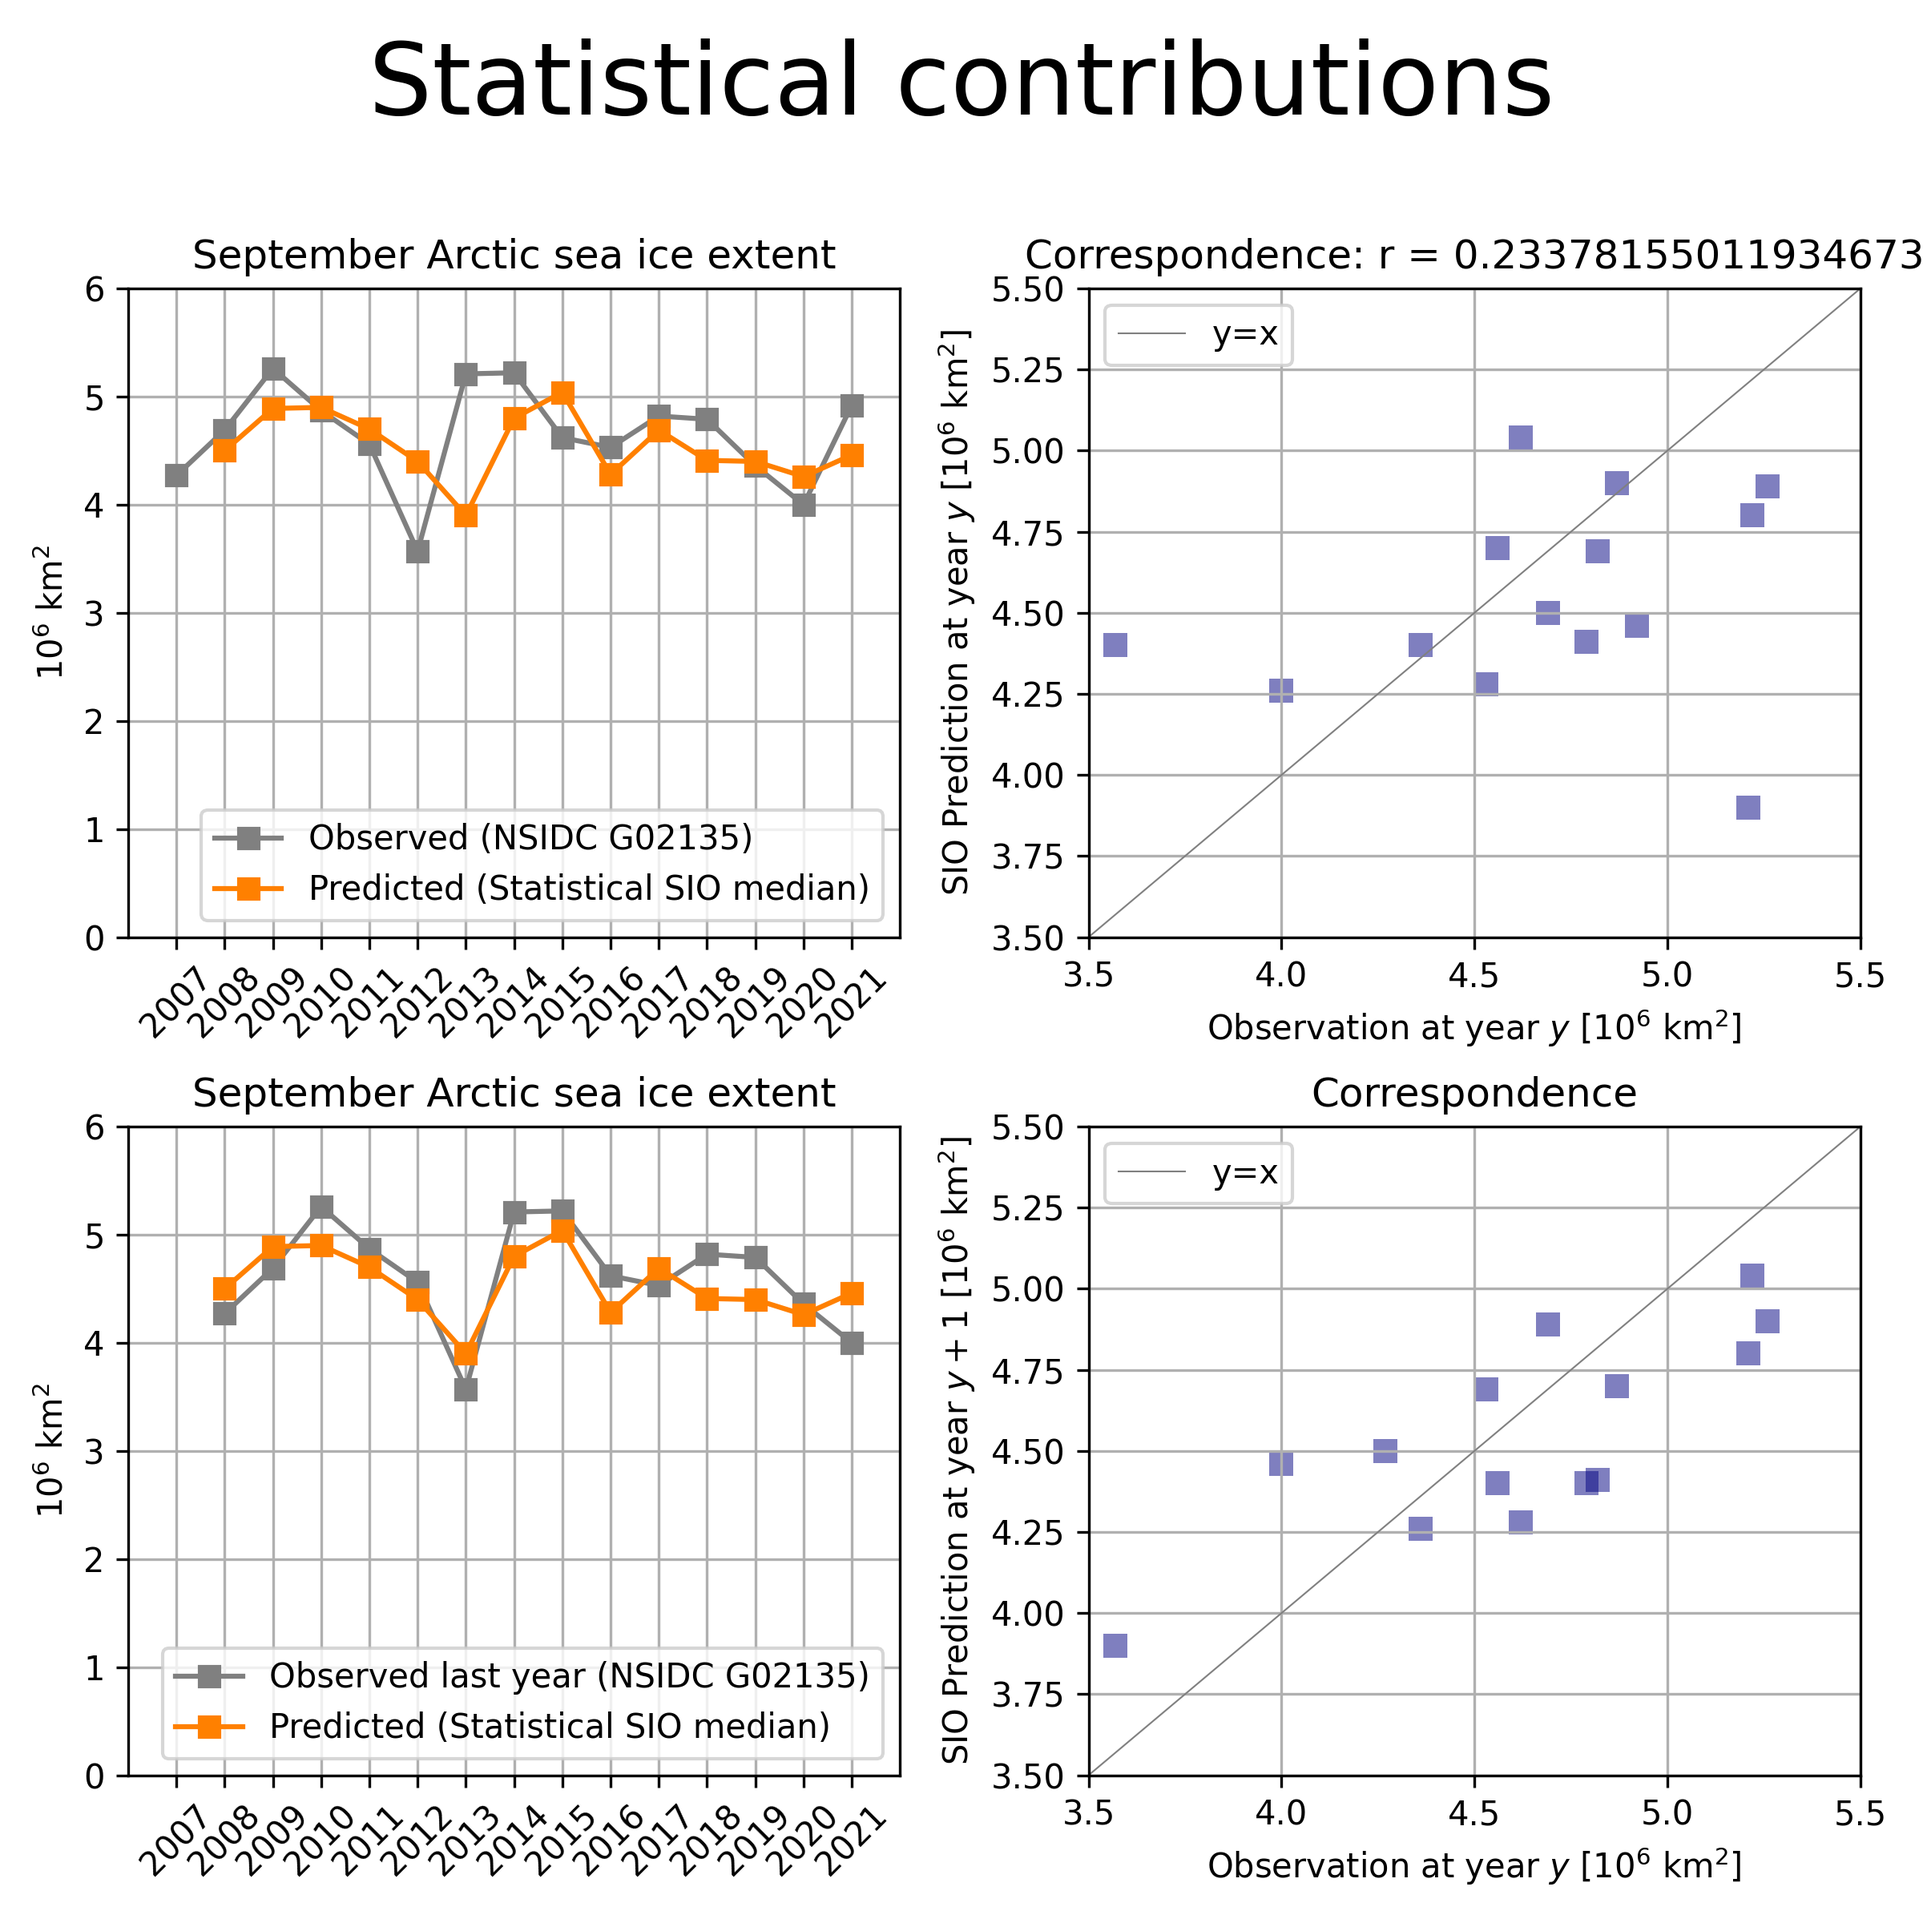
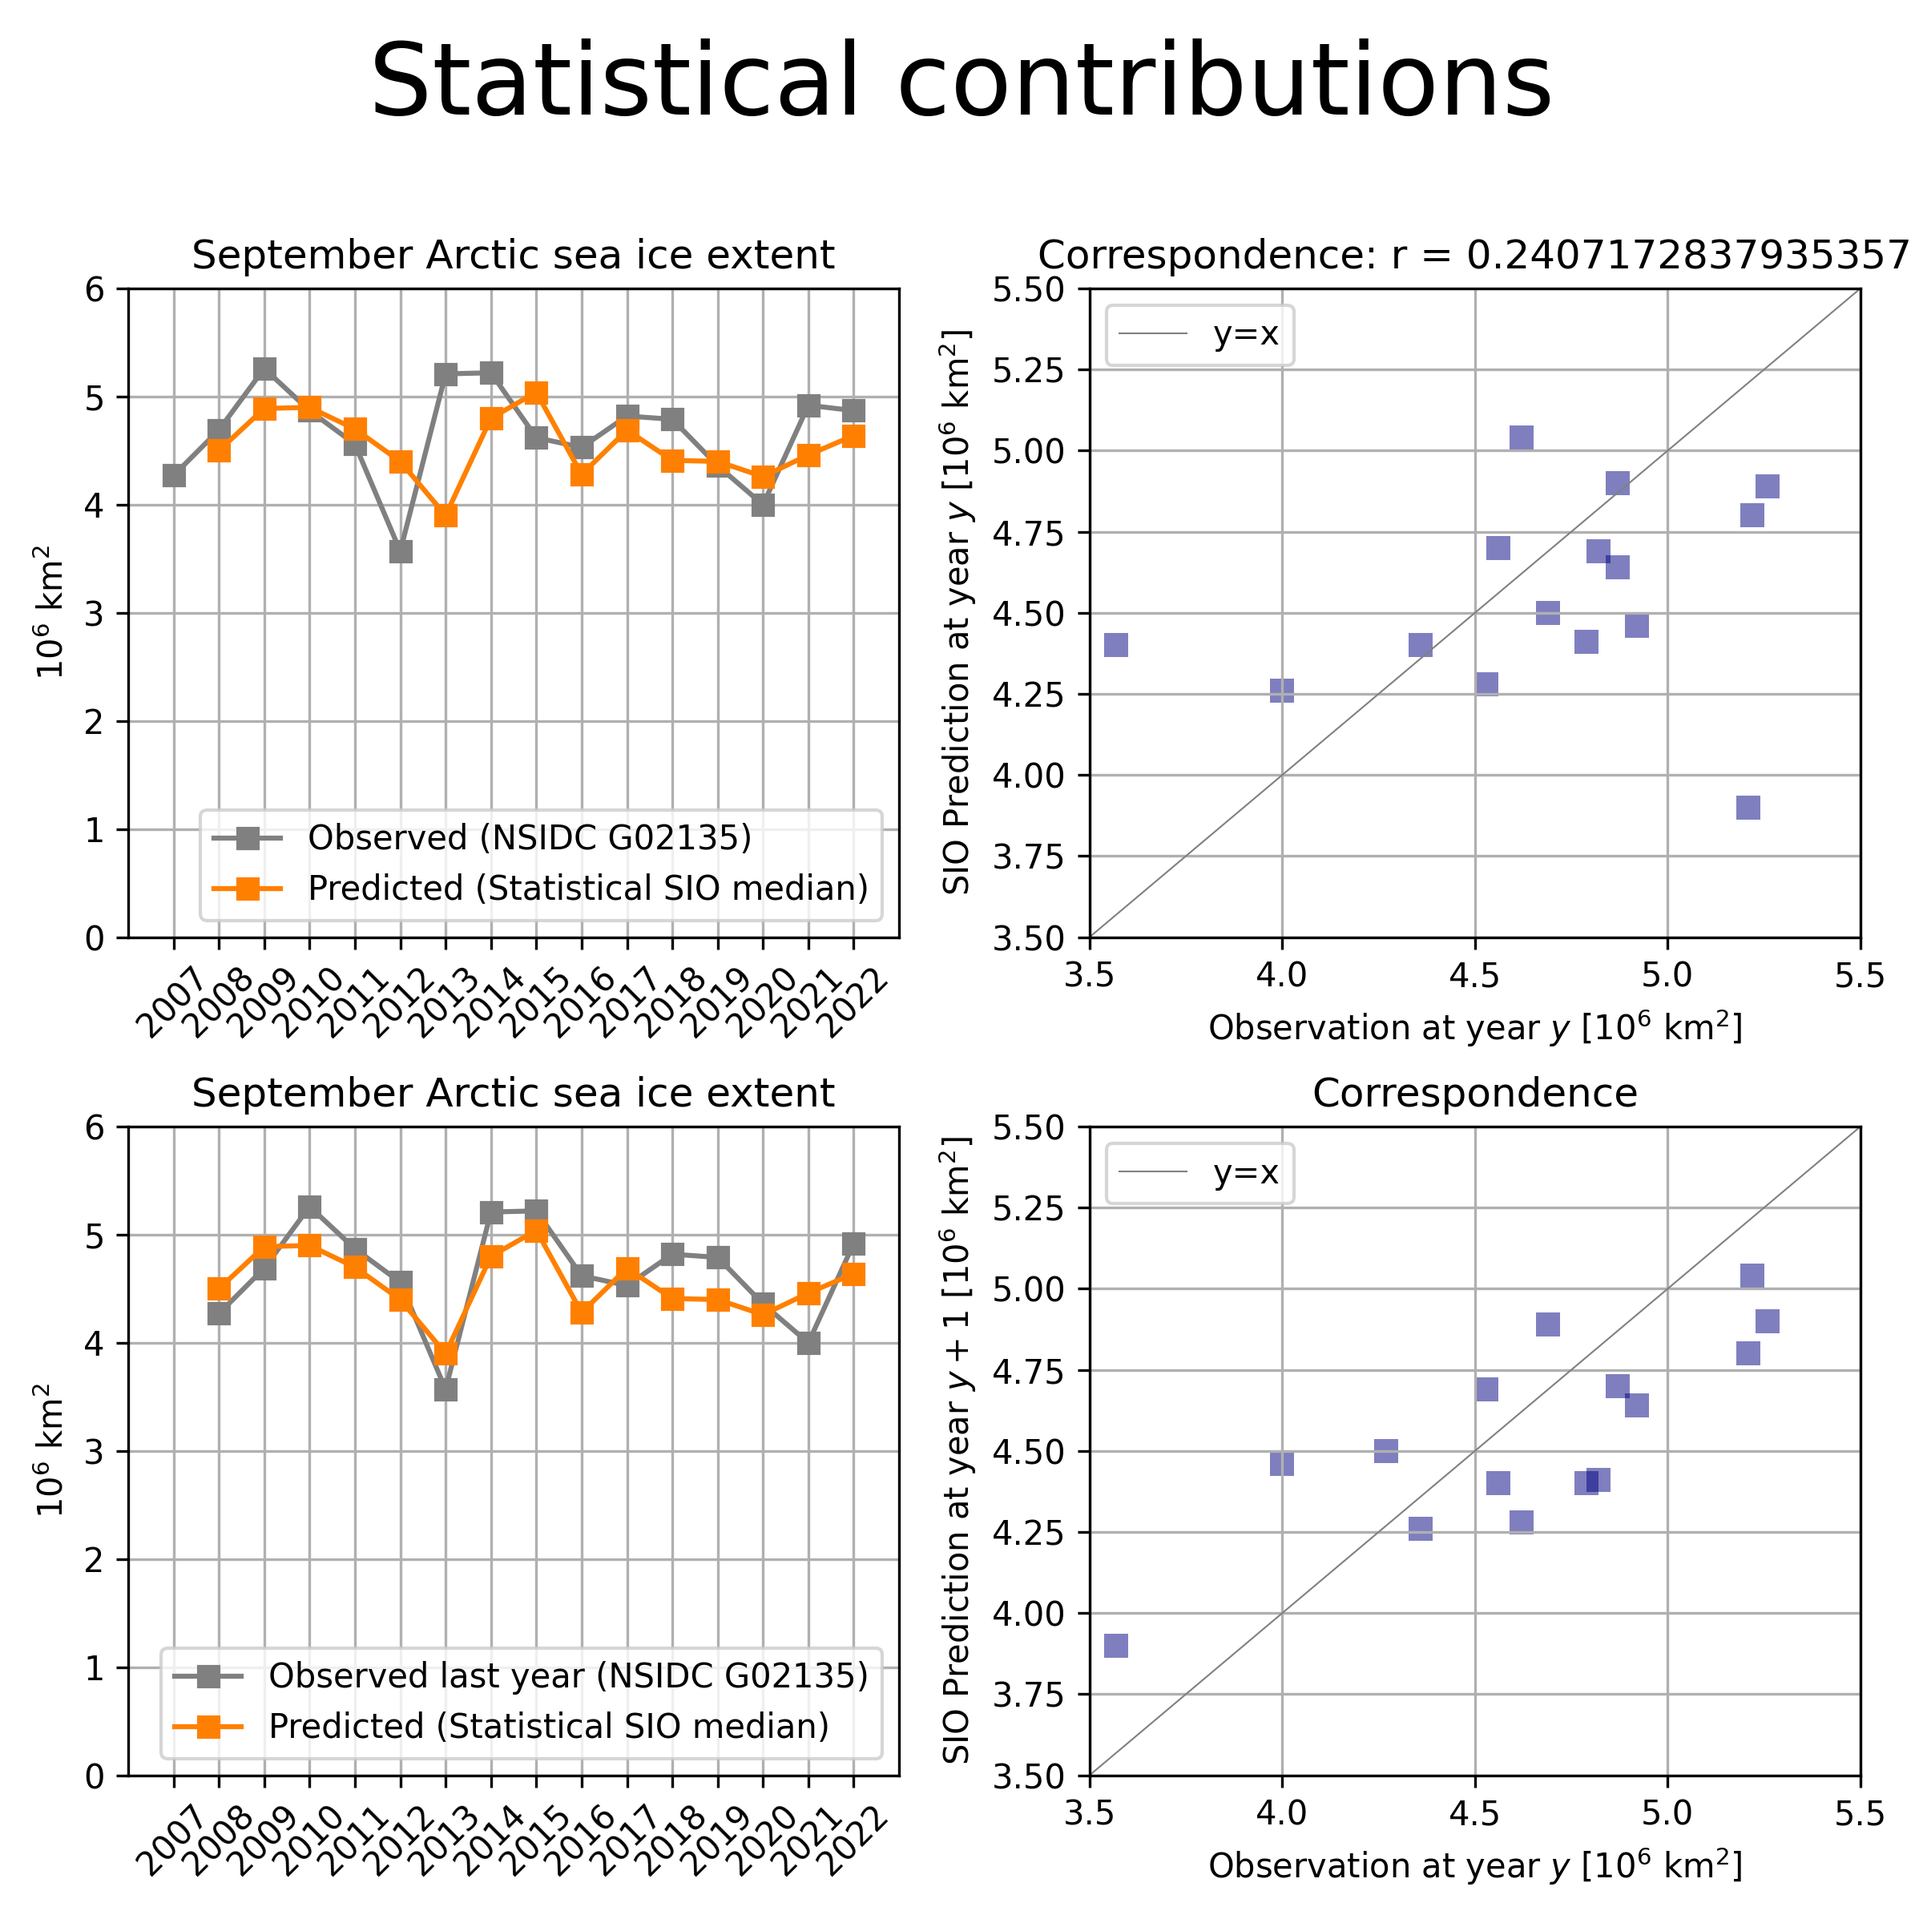
Sept 2022 update with available obs

diff --git a/sio_predicting_predictions.py b/sio_predicting_predictions.py
@@ -22,7 +22,7 @@ import calendar
 
 # Add SIO data (June submissions)
 methname = ["All",  "Dynamical", "Statistical", "Heuristic", "Mixed"]
-method = 3
+method = 0
 
 #       Year   obs   mode, [ALL,    DYN,    STAT,   HEUR,   MIX]
 #
@@ -45,7 +45,7 @@ data = [
         [2019, 4.36, "inSample",   [4.40,   4.56,   4.4 ,   4.09,   np.nan]], # Based on Betsy's Excel sheet
         [2020, 4.00, "inSample",   [4.33,  4.405,  4.26,   4.35,   np.nan  ]], #
         [2021, 4.92, "inSample",   [4.37,   4.20,    4.46,  4.29,   np.nan ]],
-        [2022, np.nan, "outSample",  [4.57,   4.56, 4.64,  4.38,   4.85 ]],
+        [2022, 4.87, "inSample",  [4.57,   4.56, 4.64,  4.38,   4.85 ]],
        ]
 
 # Collect data to contruct relationship
